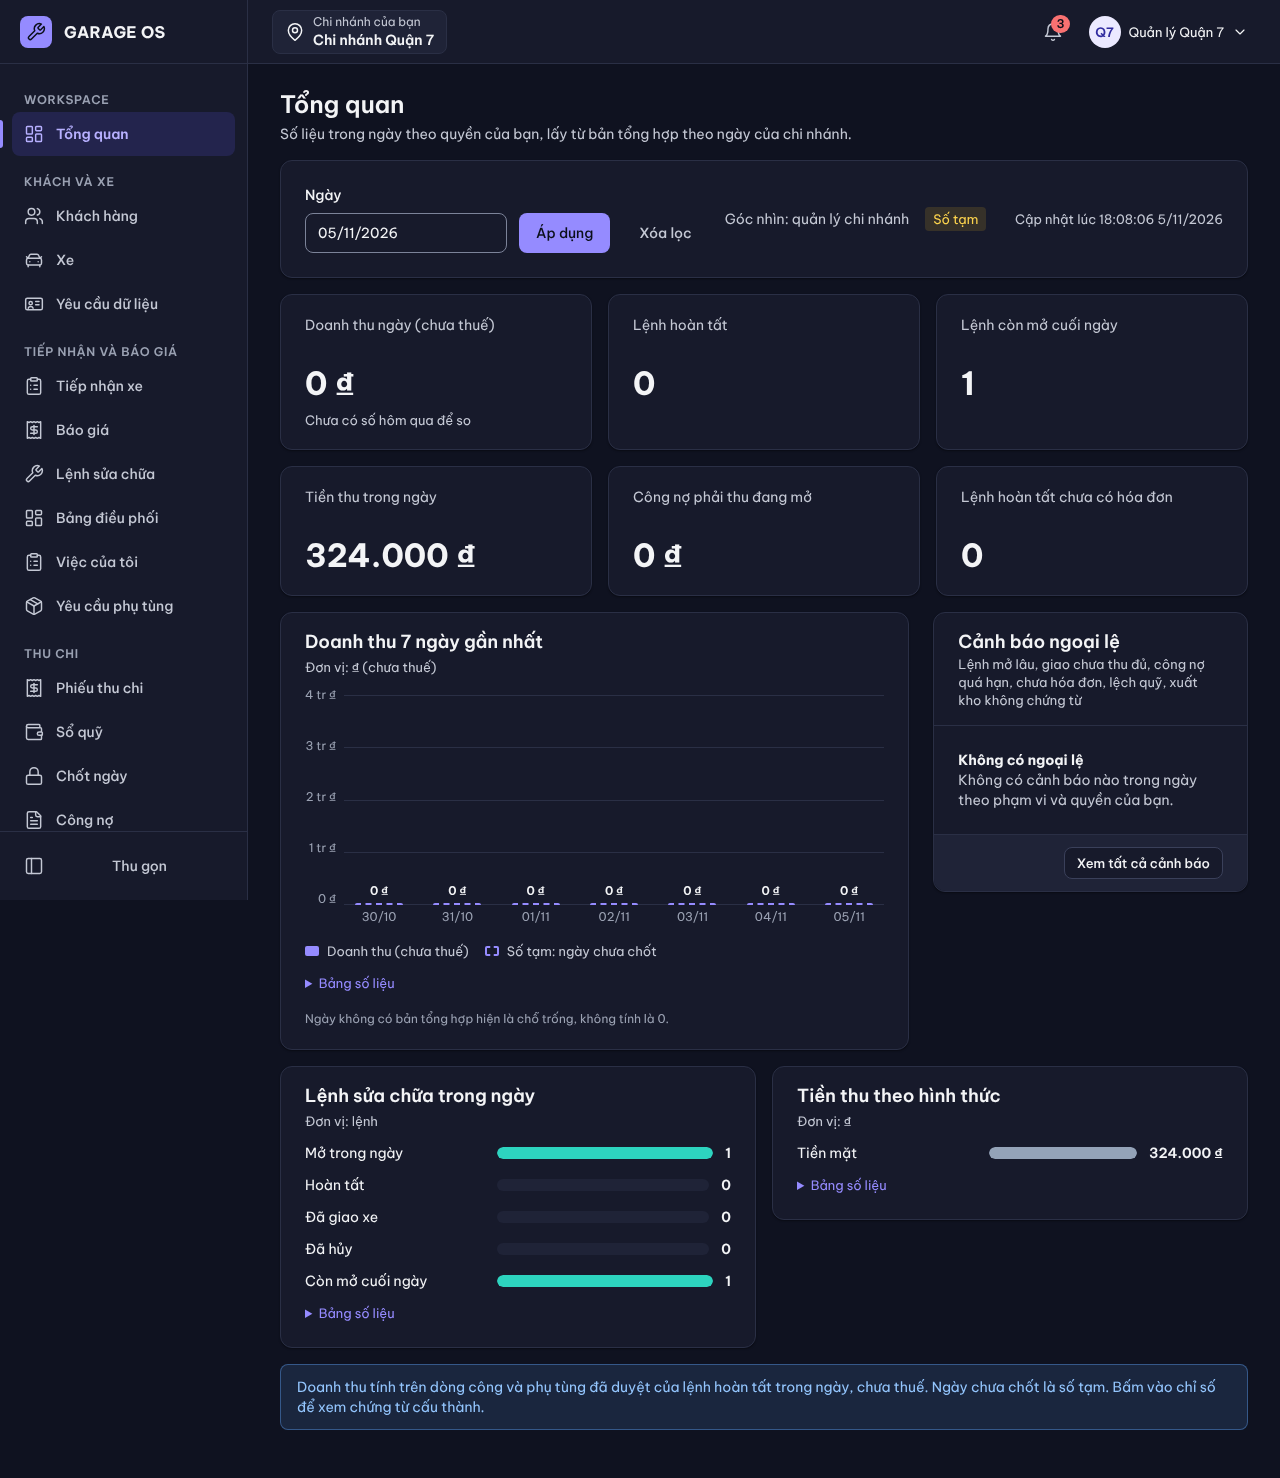
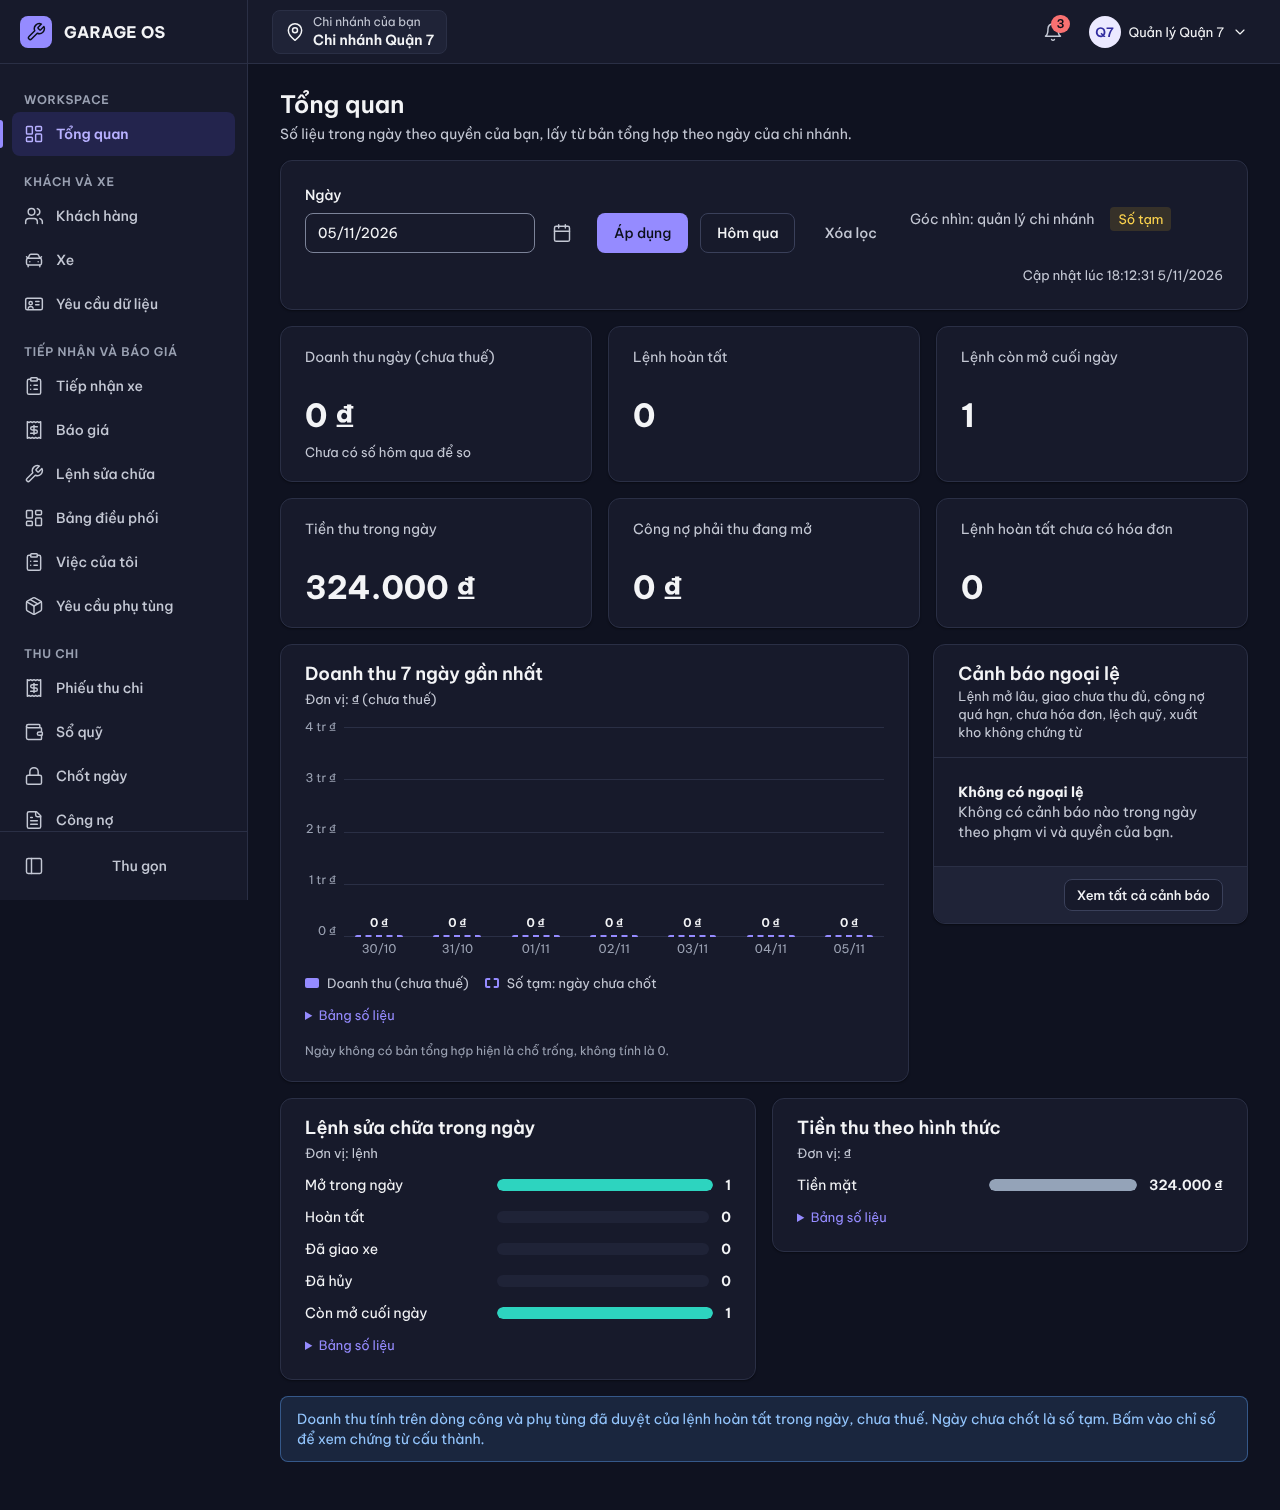
feat(ui): calendar picker and Hôm qua button on the dashboard date filter
Claude-Session: https://claude.ai/code/session_01EqYbDeaMCz4Stmq5jqEEUb

diff --git a/src/ui/components/DateFilter.tsx b/src/ui/components/DateFilter.tsx
@@ -1,8 +1,9 @@
 'use client';
 
 import { useRouter } from 'next/navigation';
-import { useState } from 'react';
+import { useRef, useState } from 'react';
 import { Button } from './Button';
+import { Icon } from './Icon';
 import { isoToViDisplay, maskViDate, viToIsoDisplay } from '../dateMask';
 import { DateInput } from './DateInput';
 
@@ -13,18 +14,30 @@ export function DateFilter(props: {
   keep?: Record<string, string>;
   applyLabel: string;
   resetLabel: string;
+  /** calendar button next to the date field (single-date filters); picking a date applies it at once */
+  pickerLabel?: string;
+  /** shortcut button that applies yesterday (Asia/Ho_Chi_Minh) */
+  yesterdayLabel?: string;
 }) {
+  const pickerRef = useRef<HTMLInputElement>(null);
   const router = useRouter();
   const [vals, setVals] = useState<Record<string, string>>(
     Object.fromEntries(props.fields.map((f) => [f.name, isoToViDisplay(f.iso)])),
   );
-  function go() {
+  function go(override?: Record<string, string>) {
     const q = new URLSearchParams(props.keep ?? {});
     for (const f of props.fields) {
-      const iso = viToIsoDisplay(vals[f.name] ?? '');
+      const iso = override?.[f.name] ?? viToIsoDisplay(vals[f.name] ?? '');
       if (iso) q.set(f.name, iso);
     }
     router.push(`${props.base}${q.size ? `?${q}` : ''}`);
+  }
+  const single = props.fields.length === 1 ? props.fields[0]! : null;
+  const today = vnToday();
+  function applyIso(iso: string) {
+    if (!single) return;
+    setVals((v) => ({ ...v, [single.name]: isoToViDisplay(iso) }));
+    go({ [single.name]: iso });
   }
   return (
     <form
@@ -39,19 +52,66 @@ export function DateFilter(props: {
           <label className="field__label" htmlFor={`df-${f.name}`}>
             {f.label}
           </label>
-          <DateInput
-            id={`df-${f.name}`}
-            defaultValue={isoToViDisplay(f.iso)}
-            onChange={(e) => setVals((v) => ({ ...v, [f.name]: maskViDate(e.target.value) }))}
-          />
+          <div className="date-field">
+            <DateInput
+              id={`df-${f.name}`}
+              value={vals[f.name] ?? ''}
+              onChange={(e) => setVals((v) => ({ ...v, [f.name]: maskViDate(e.target.value) }))}
+            />
+            {single && props.pickerLabel ? (
+              <>
+                <button
+                  type="button"
+                  className="btn btn--ghost btn--sm date-field__btn"
+                  aria-label={props.pickerLabel}
+                  title={props.pickerLabel}
+                  onClick={() => {
+                    const el = pickerRef.current;
+                    if (!el) return;
+                    el.value = viToIsoDisplay(vals[f.name] ?? '') ?? '';
+                    if (typeof el.showPicker === 'function') el.showPicker();
+                    else el.click();
+                  }}
+                >
+                  <Icon name="calendar" />
+                </button>
+                <input
+                  ref={pickerRef}
+                  type="date"
+                  className="date-field__native"
+                  tabIndex={-1}
+                  aria-hidden="true"
+                  max={today}
+                  onChange={(e) => {
+                    if (e.target.value) applyIso(e.target.value);
+                  }}
+                />
+              </>
+            ) : null}
+          </div>
         </div>
       ))}
       <Button type="submit" variant="primary">
         {props.applyLabel}
       </Button>
+      {single && props.yesterdayLabel ? (
+        <Button type="button" variant="secondary" onClick={() => applyIso(addDays(today, -1))}>
+          {props.yesterdayLabel}
+        </Button>
+      ) : null}
       <Button type="button" variant="ghost" onClick={() => router.push(props.base)}>
         {props.resetLabel}
       </Button>
     </form>
   );
+}
+
+/** Today as yyyy-MM-dd in Vietnam time (the business day), whatever the browser time zone is. */
+function vnToday(): string {
+  return new Intl.DateTimeFormat('en-CA', { timeZone: 'Asia/Ho_Chi_Minh' }).format(new Date());
+}
+function addDays(iso: string, n: number): string {
+  const d = new Date(`${iso}T00:00:00Z`);
+  d.setUTCDate(d.getUTCDate() + n);
+  return d.toISOString().slice(0, 10);
 }

diff --git a/e2e/dashboard-home.spec.ts b/e2e/dashboard-home.spec.ts
@@ -77,6 +77,40 @@ test.describe('home dashboard (/)', () => {
     }
   });
 
+  test('date filter: Hôm qua button and the calendar apply a date at once; reset returns to today', async ({
+    browser,
+  }) => {
+    test.setTimeout(120_000);
+    const ql = await as(browser, 'ql.q7');
+    try {
+      const fmt = new Intl.DateTimeFormat('en-CA', { timeZone: 'Asia/Ho_Chi_Minh' });
+      const today = fmt.format(new Date());
+      const ago = (n: number) => {
+        const d = new Date(`${today}T00:00:00Z`);
+        d.setUTCDate(d.getUTCDate() - n);
+        return d.toISOString().slice(0, 10);
+      };
+      const vi = (iso: string) => `${iso.slice(8, 10)}/${iso.slice(5, 7)}/${iso.slice(0, 4)}`;
+      await ql.page.goto('/');
+      await ql.page.getByRole('button', { name: 'Hôm qua' }).click();
+      await expect(ql.page).toHaveURL(new RegExp(`date=${ago(1)}$`));
+      await expect(ql.page.locator('#df-date')).toHaveValue(vi(ago(1)));
+      // the calendar: the native picker is hidden behind a labelled button; choosing a date applies it
+      await expect(ql.page.getByRole('button', { name: 'Chọn ngày từ lịch' })).toBeVisible();
+      await ql.page.locator('.date-field__native').fill(ago(3));
+      await expect(ql.page).toHaveURL(new RegExp(`date=${ago(3)}$`));
+      await expect(ql.page.locator('#df-date')).toHaveValue(vi(ago(3)));
+      // the calendar does not offer future days
+      await expect(ql.page.locator('.date-field__native')).toHaveAttribute('max', today);
+      await ql.page.getByRole('button', { name: 'Xóa lọc' }).click();
+      await expect(ql.page).toHaveURL(/\/$/);
+      await expect(ql.page.locator('#df-date')).toHaveValue(vi(today));
+      expect(serious(await axe(ql.page))).toEqual([]);
+    } finally {
+      await ql.ctx.close();
+    }
+  });
+
   test('manager: dark theme keeps WCAG 2.2 AA contrast on every card and chart', async ({
     browser,
   }) => {

diff --git a/src/app/styles/components.css b/src/app/styles/components.css
@@ -292,6 +292,8 @@ th[aria-sort="ascending"] .th-sort .icon, th[aria-sort="descending"] .th-sort .i
 .filter-bar__row { display: flex; flex-wrap: wrap; align-items: flex-end; gap: var(--space-3); min-width: 0; }
 .filter-bar__row .field { min-width: 160px; }
 @media (max-width: 639px) { .filter-bar__row .field { flex: 1 1 100%; } .filter-bar__row .btn { flex: 1 1 0; } }
+.date-field { position: relative; display: flex; align-items: center; gap: var(--space-1); }
+.date-field__native { position: absolute; right: 0; bottom: 0; width: 1px; height: 1px; opacity: 0; pointer-events: none; border: 0; padding: 0; }
 .filter-bar__actions { margin-left: auto; display: flex; gap: var(--space-2); }
 .chip-row { display: flex; flex-wrap: wrap; align-items: center; gap: var(--space-2); margin-top: var(--space-3); }
 .chip { display: inline-flex; align-items: center; gap: 4px; min-height: 32px; padding: 0 4px 0 12px; border-radius: var(--radius-full); background: var(--color-primary-subtle); color: var(--color-brand-800); border: 1px solid var(--color-brand-200); font-size: var(--font-size-sm); font-weight: 500; }

diff --git a/src/app/(shell)/DashboardHome.tsx b/src/app/(shell)/DashboardHome.tsx
@@ -57,11 +57,14 @@ export async function DashboardHome(props: {
         <div className="card__body">
           <div className="dsh-filter">
             <DateFilter
+              key={d.date}
               base="/"
               fields={[{ name: 'date', label: t('date'), iso: d.date }]}
               {...(keep ? { keep } : {})}
               applyLabel={t('apply')}
               resetLabel={t('reset')}
+              pickerLabel={t('pickDate')}
+              yesterdayLabel={t('yesterday')}
             />
             <span className="text-secondary" data-testid="home-lens">
               {t(`lens_${d.lens}` as never)}

diff --git a/src/ui/components/DateInput.tsx b/src/ui/components/DateInput.tsx
@@ -10,12 +10,16 @@ import { maskViDate } from '../dateMask';
  */
 export function DateInput({
   defaultValue,
+  value,
   onChange,
   ...rest
 }: Omit<InputHTMLAttributes<HTMLInputElement>, 'type' | 'value' | 'defaultValue'> & {
   defaultValue?: string;
+  /** when given, the field is controlled by the parent (e.g. a calendar picker or a shortcut button sets it) */
+  value?: string;
 }) {
-  const [v, setV] = useState(defaultValue ?? '');
+  const [inner, setV] = useState(defaultValue ?? '');
+  const v = value ?? inner;
   return (
     <input
       {...rest}
